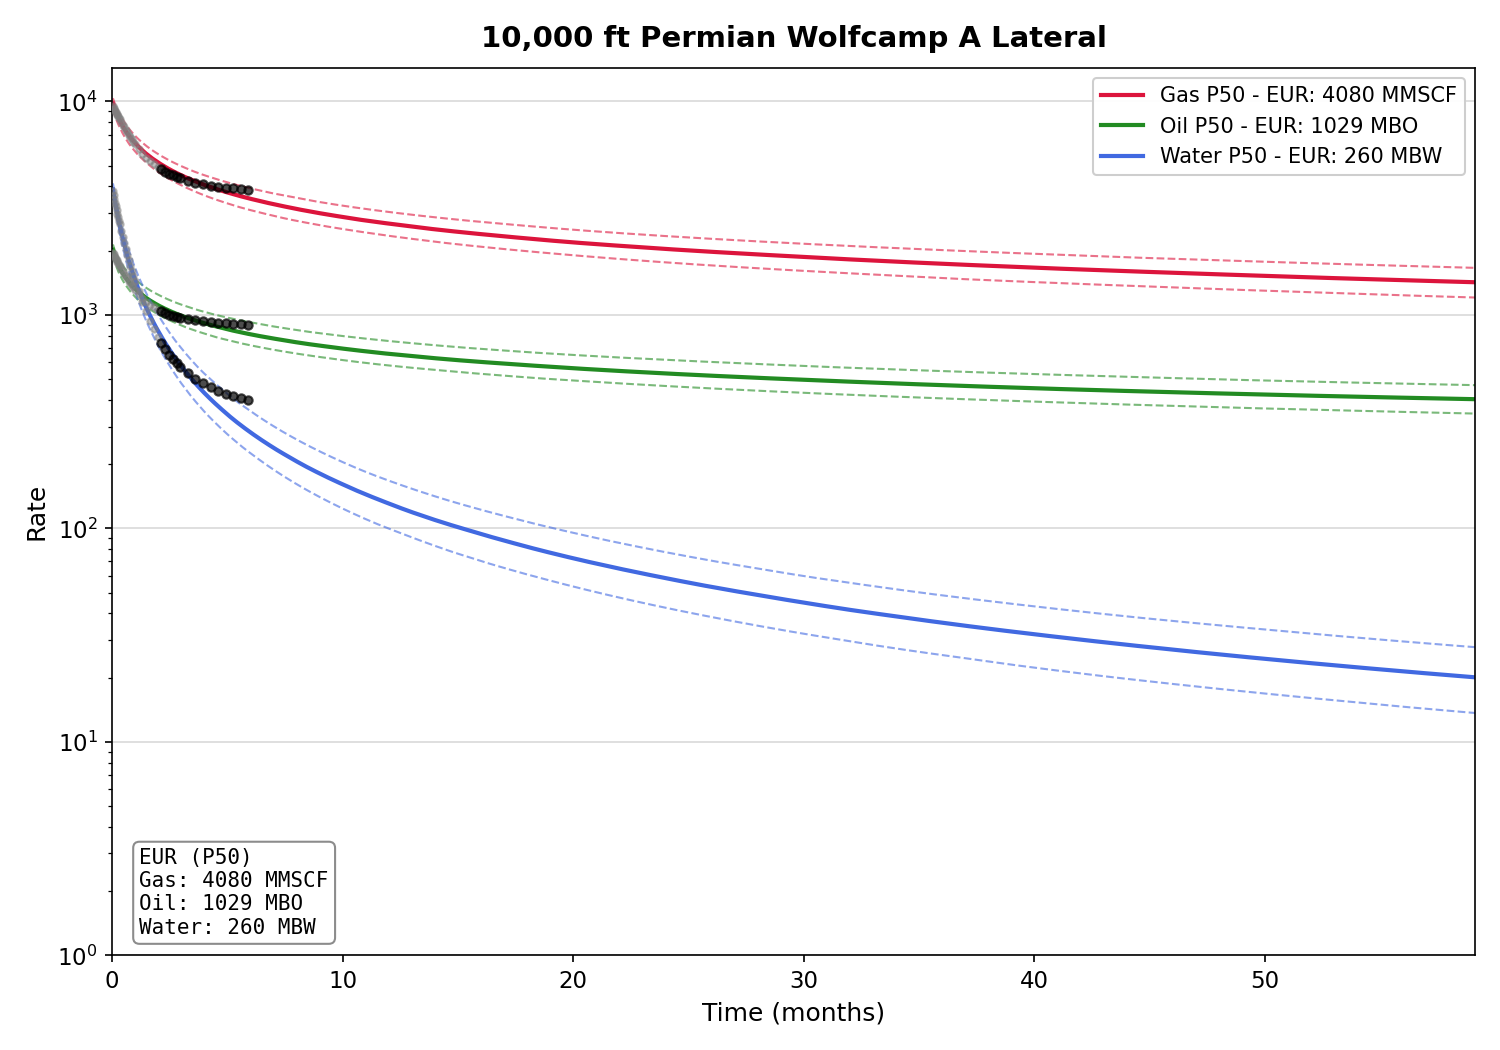
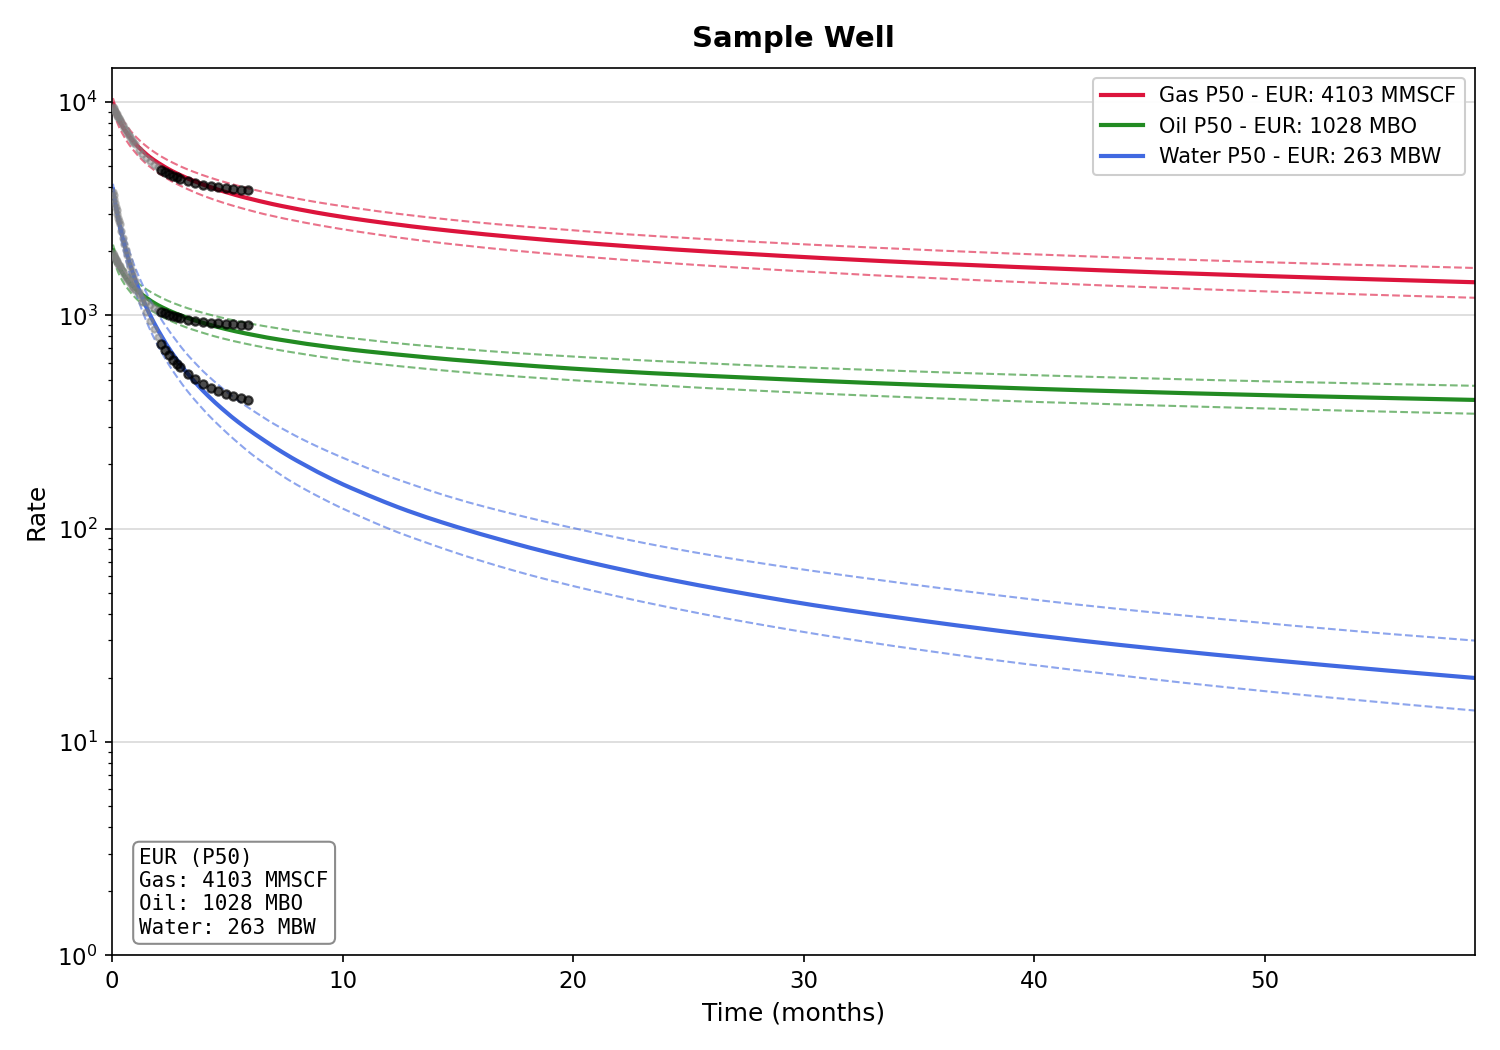
docs: Clean up and standardize repository files
This commit finalizes a comprehensive cleanup of the repository's documentation and supporting files.

Key improvements:
- Removed the unused `streamlit` dependency from `requirements.txt`.
- Removed the non-functional "Live Demo" section from `README.md`.
- Standardized the `LICENSE` file as plain text and consolidated license headers in the README and white paper to point to it.
- Updated `run_example.py` to dynamically generate the plot title from the input filename instead of using a hardcoded string.

diff --git a/run_example.py b/run_example.py
@@ -230,7 +230,8 @@ def run_single_well(filepath, save_csv=True, save_plot=True, quiet=False):
                 bbox=dict(boxstyle='round', facecolor='white', edgecolor='gray', alpha=0.9))
         
         # Title
-        ax.set_title('10,000 ft Permian Wolfcamp A Lateral', fontsize=14, fontweight='bold', pad=10)
+        plot_title = basename.replace('_', ' ').title()
+        ax.set_title(plot_title, fontsize=14, fontweight='bold', pad=10)
         
         plt.tight_layout()
         plot_path = f"{basename}_forecast.png"

diff --git a/README.md b/README.md
@@ -7,11 +7,6 @@
 **Author:** Eric Waller  
 **Version:** 3.1  
 **License:** All Rights Reserved (see LICENSE)
-## Live Demo
-
-Try the Waller Decomposition tool: **[https://Waller-Decomposition.replit.app](https://Waller-Decomposition.replit.app)**
-
-Upload your own CSV or use the sample data to test EUR forecasting.
 
 ## What It Does
 
@@ -30,75 +25,54 @@ Features:
 
 ## Installation
 
-pip install -r requirements.txt
+`pip install -r requirements.txt`
 
 ## Quick Start
 
 ### Single Well
-
-python3 run_example.py sample_well.csv
+`python3 run_example.py sample_well.csv`
 
 Outputs:
-- sample_well_forecast.png - Plot with P10/P50/P90 bands
-- sample_well_forecast.csv - Daily forecast for import
+- `sample_well_forecast.png` - Plot with P10/P50/P90 bands
+- `sample_well_forecast.csv` - Daily forecast for import
 
 ### Batch Mode (Multiple Wells)
-
-mkdir wells
-cp *.csv wells/
-python3 run_example.py --batch ./wells/
+`mkdir wells`
+`cp *.csv wells/`
+`python3 run_example.py --batch ./wells/`
 
 Outputs:
 - Individual plots and CSVs per well
-- batch_summary.csv - Portfolio summary
-- Portfolio totals (P50)
+- `batch_summary.csv` - Portfolio summary
 
 ## Input Data Format
 
 CSV with these columns:
-
 | Column | Description | Units | Required |
-|--------|-------------|-------|----------|
+| --- | --- | --- | --- |
 | days | Days since first production | days | Yes |
 | pressure_psi | Flowing pressure (THP or BHP) | psi | Yes |
 | rate_mscfd | Gas rate | MSCF/day | If gas well |
 | rate_bblpd | Oil rate | bbl/day | If oil well |
 | rate_bwpd | Water rate | bbl/day | Optional |
 
-### Data Requirements
-- Minimum: 30+ days (90+ preferred)
-- Remove or interpolate shut-in periods
-- Small gaps (<30 days) acceptable
-
-## Output Interpretation
-
-| Value | Meaning |
-|-------|---------|
-| P10 | 90% chance EUR exceeds this (conservative) |
-| P50 | Best estimate (median) |
-| P90 | 10% chance EUR exceeds this (optimistic) |
-
 ## Repository Contents
 
 | File | Description |
-|------|-------------|
+| --- | --- |
 | run_example.py | Main forecasting tool |
 | sample_well.csv | Example 10,000 ft Permian Wolfcamp A well |
 | waller_decomposition_v3.md | Technical white paper |
 | requirements.txt | Python dependencies |
+| LICENSE | License terms |
 
 ## Citation
 
-Waller, E. (2026). The Waller Decomposition: Multi-Resolution Wavelet EUR
-Forecasting for Multi-Stage Fractured Horizontal Wells. Technical White Paper v3.0.
-[![DOI](https://zenodo.org/badge/DOI/10.5281/zenodo.18372228.svg)](https://doi.org/10.5281/zenodo.18372228)
+Waller, E. (2026). The Waller Decomposition: Multi-Resolution Wavelet EUR Forecasting for Multi-Stage Fractured Horizontal Wells. Technical White Paper v3.0.
 
 ## License
 
-Copyright (c) 2026 Eric Waller. All Rights Reserved.
-
-For licensing inquiries: ewaller.com
+See the `LICENSE` file for details.
 
 ## Contact
-
 - Website: ewaller.com

diff --git a/waller_decomposition_v3.md b/waller_decomposition_v3.md
@@ -7,13 +7,7 @@
 **Author:** Eric Waller  
 **Date:** January 2026  
 **Status:** Research  
-**License:** Copyright (c) 2026 Eric Waller. All Rights Reserved.
-
-This work is provided for academic review and personal evaluation only.
-Commercial use, redistribution, or derivative works require explicit
-written permission from the author.
-
-For licensing inquiries: ewaller.com
+**License:** All Rights Reserved (see LICENSE file)
 
 ---
 